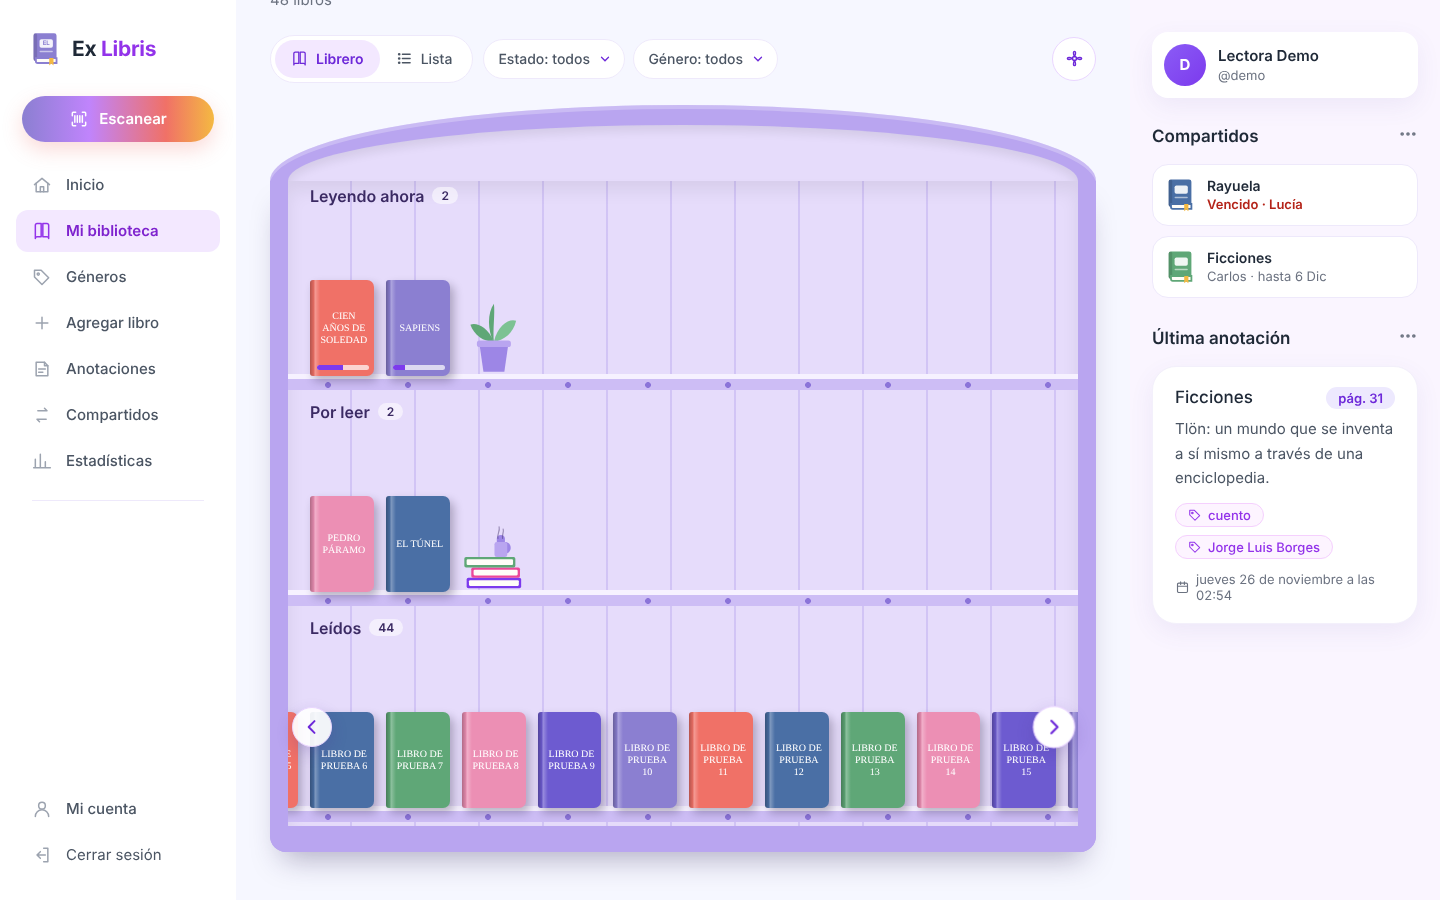
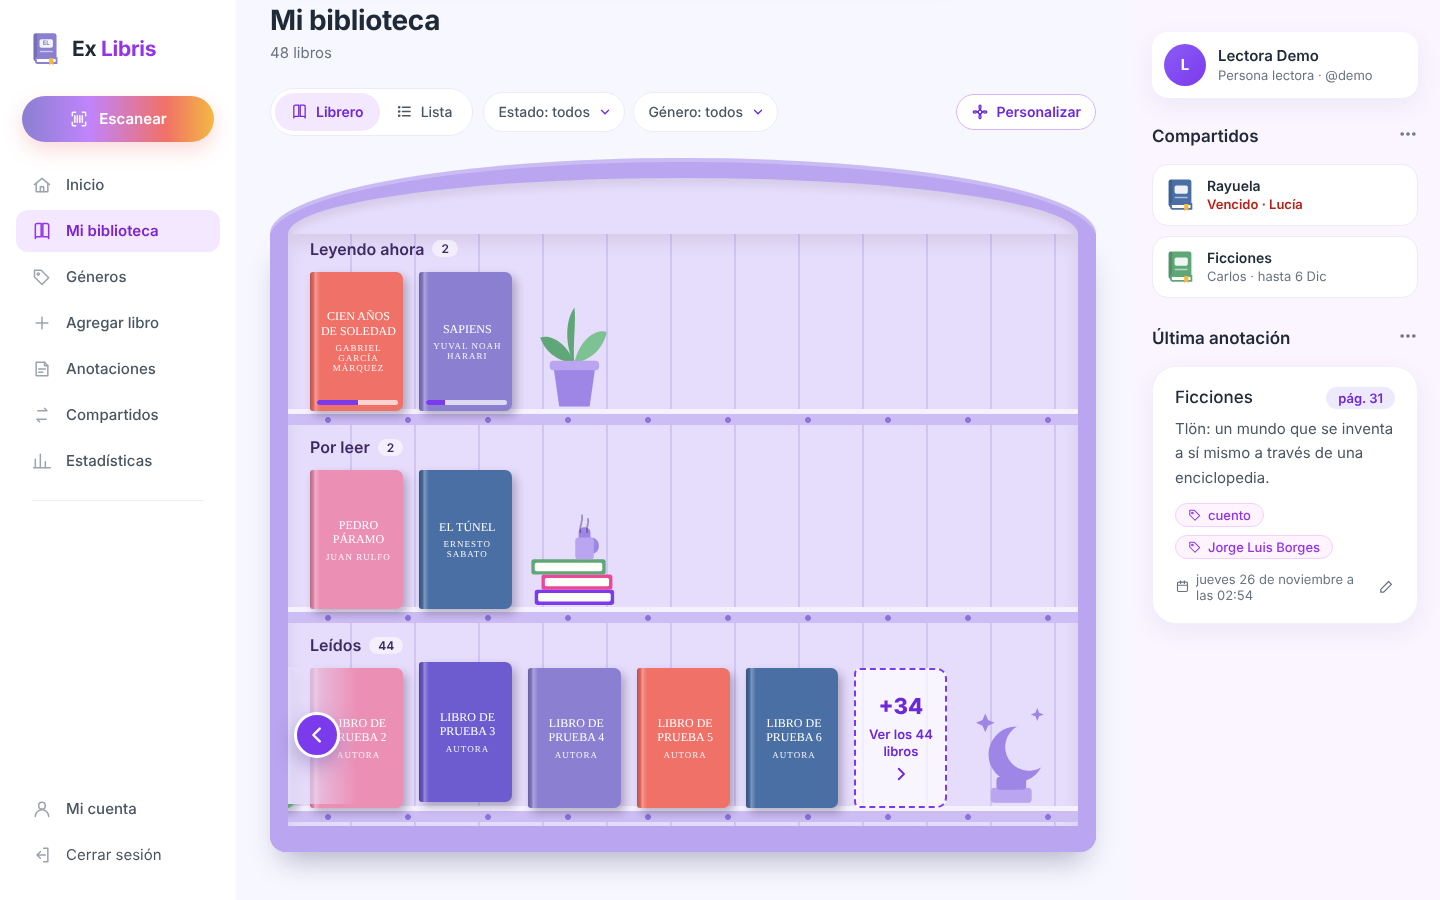
Carrusel: máximo 10 libros por estante con «Ver los N libros» y arrastre con el mouse
Claude-Session: https://claude.ai/code/session_01GYL794gNVj3QXKcKwqtHSP

diff --git a/biblioteca/templates/biblioteca/biblioteca.html b/biblioteca/templates/biblioteca/biblioteca.html
@@ -69,13 +69,13 @@
     {% for seccion in secciones %}
       <div class="estante-seccion">
         <div class="estante-cabecera">
-          <h2>{{ seccion.titulo }} <span>{{ seccion.libros|length }}</span></h2>
+          <h2>{{ seccion.titulo }} <span>{{ seccion.total }}</span></h2>
         </div>
         {% if seccion.libros %}
         <div class="carrusel" data-carrusel>
           <button type="button" class="carrusel-flecha anterior" aria-label="Ver libros anteriores de «{{ seccion.titulo }}»" hidden>{% icono 'flecha-izq' %}</button>
         {% endif %}
-        <div class="repisa{% if seccion.libros %} en-fila{% endif %}" {% if seccion.libros %}tabindex="0" aria-label="{{ seccion.titulo }}: {{ seccion.libros|length }} libro{{ seccion.libros|length|pluralize }}, desliza para ver más"{% endif %}>
+        <div class="repisa{% if seccion.libros %} en-fila{% endif %}" {% if seccion.libros %}tabindex="0" aria-label="{{ seccion.titulo }}: {{ seccion.total }} libro{{ seccion.total|pluralize }}, desliza para ver más"{% endif %}>
           {% for libro in seccion.libros %}
             <a class="libro-repisa" href="{% url 'libro_detalle' libro.pk %}" title="{{ libro.titulo }} · {{ libro.autores }}">
               <span class="tapa-repisa c{{ libro|color_libro }}">
@@ -92,6 +92,13 @@
               {% if seccion.valor == "leyendo" %}<a href="?estado=por_leer&amp;vista=lista">Elegir uno de «Por leer»</a>{% else %}<a href="{% url 'libro_nuevo' %}">Agregar libro</a>{% endif %}
             </div>
           {% endfor %}
+          {% if seccion.hay_mas %}
+            <a class="ver-mas-repisa" href="{{ seccion.url_lista }}">
+              <span class="ver-mas-numero">+{{ seccion.total|add:"-10" }}</span>
+              <span>Ver los {{ seccion.total }} libros</span>
+              {% icono 'flecha-der' %}
+            </a>
+          {% endif %}
           <span class="adorno-repisa">{% include "biblioteca/_adorno.html" with nombre=seccion.adorno %}</span>
         </div>
         {% if seccion.libros %}
@@ -149,6 +156,27 @@
     ant.addEventListener("click", () => mover(-1));
     sig.addEventListener("click", () => mover(1));
     fila.addEventListener("scroll", actualizar, { passive: true });
+
+    // Arrastrar con el mouse (en el celular el dedo ya desliza de forma nativa).
+    let arrastrando = false, inicioX = 0, inicioScroll = 0, movido = false;
+    fila.addEventListener("pointerdown", (e) => {
+      if (e.pointerType !== "mouse" || e.button !== 0) return;
+      arrastrando = true; movido = false; inicioX = e.clientX; inicioScroll = fila.scrollLeft;
+      fila.classList.add("arrastrando");
+    });
+    window.addEventListener("pointermove", (e) => {
+      if (!arrastrando) return;
+      const dx = e.clientX - inicioX;
+      if (Math.abs(dx) > 5) movido = true;
+      fila.scrollLeft = inicioScroll - dx;
+    });
+    window.addEventListener("pointerup", () => {
+      if (!arrastrando) return;
+      arrastrando = false; fila.classList.remove("arrastrando");
+    });
+    // Si se arrastró, el clic al soltar no abre el libro.
+    fila.addEventListener("click", (e) => { if (movido) { e.preventDefault(); e.stopPropagation(); movido = false; } }, true);
+    fila.addEventListener("dragstart", (e) => e.preventDefault());
     window.addEventListener("resize", actualizar);
     actualizar();
   });

diff --git a/biblioteca/static/biblioteca/css/exlibris.css b/biblioteca/static/biblioteca/css/exlibris.css
@@ -947,3 +947,17 @@ a.perfil { transition: box-shadow .15s; } a.perfil:hover { box-shadow: var(--som
 #lector.espejo video { transform: scaleX(-1); }
 #linterna[aria-pressed="true"] { background: #fef3c7; border-color: #f6c453; color: #8a4b0f; }
 #espejo[aria-pressed="true"] { background: var(--lila-100); border-color: var(--lila-300); }
+
+/* ---------- Carrusel: arrastre con el mouse y tarjeta «Ver los N libros» ---------- */
+.librero .repisa.en-fila { cursor: grab; user-select: none; -webkit-user-select: none; touch-action: pan-x pan-y; }
+.librero .repisa.en-fila.arrastrando { cursor: grabbing; scroll-snap-type: none; scroll-behavior: auto; }
+.repisa.en-fila img { -webkit-user-drag: none; pointer-events: none; }
+.ver-mas-repisa {
+  aspect-ratio: 2 / 3; margin-bottom: calc(var(--tabla) - 2px); scroll-snap-align: start;
+  display: flex; flex-direction: column; align-items: center; justify-content: center; gap: 6px; text-align: center; padding: 8px;
+  border-radius: 6px 10px 10px 6px; border: 2px dashed var(--primario); background: rgba(255, 255, 255, .7);
+  color: var(--primario-texto); font-size: 13px; font-weight: 600; line-height: 1.25; transition: background .15s, transform .15s;
+}
+.ver-mas-repisa:hover { background: #fff; transform: translateY(-4px); }
+.ver-mas-numero { font-size: 22px; font-weight: 800; }
+.ver-mas-repisa .icono { width: 18px; height: 18px; stroke-width: 2.4; }

diff --git a/biblioteca/tests/test_librero.py b/biblioteca/tests/test_librero.py
@@ -70,3 +70,21 @@ class PreferenciaLibreroTests(ConUsuario):
     def test_redireccion_externa_ignorada(self):
         r = self.client.post(reverse("librero_preferencias"), {"estilo": "repisas", "color": "rosa", "siguiente": "https://malo.example"})
         self.assertRedirects(r, reverse("biblioteca"))
+
+
+class LibreroMaximoTests(ConUsuario):
+    def test_maximo_10_por_estante_y_enlace_a_la_lista(self):
+        for i in range(13):
+            self.libro(titulo=f"L{i}", estado="leido")
+        r = self.client.get(reverse("biblioteca"))
+        leidos = [s for s in r.context["secciones"] if s["valor"] == "leido"][0]
+        self.assertEqual((len(leidos["libros"]), leidos["total"], leidos["hay_mas"]), (10, 13, True))
+        self.assertContains(r, "Ver los 13 libros")
+        self.assertContains(r, "+3")
+        self.assertIn("estado=leido", leidos["url_lista"])
+        self.assertIn("vista=lista", leidos["url_lista"])
+
+    def test_sin_enlace_con_10_o_menos(self):
+        for i in range(10):
+            self.libro(titulo=f"L{i}", estado="leido")
+        self.assertNotContains(self.client.get(reverse("biblioteca")), "ver-mas-repisa")

diff --git a/biblioteca/views.py b/biblioteca/views.py
@@ -104,11 +104,18 @@ def biblioteca(request):
         ("por_leer", "Por leer", "pila"),
         ("leido", "Leídos", "luna"),
     ]
-    secciones = [
-        {"valor": valor, "titulo": titulo, "adorno": adorno, "libros": [l for l in libros if l.estado == valor]}
-        for valor, titulo, adorno in estantes
-        if not estado or estado == valor
-    ]
+    MAX_POR_ESTANTE = 10  # después de 10 aparece «Ver los N libros», que abre la lista de esa categoría
+    secciones = []
+    for valor, titulo, adorno in estantes:
+        if estado and estado != valor:
+            continue
+        del_estante = [l for l in libros if l.estado == valor]
+        secciones.append({
+            "valor": valor, "titulo": titulo, "adorno": adorno, "total": len(del_estante),
+            "libros": del_estante[:MAX_POR_ESTANTE],
+            "hay_mas": len(del_estante) > MAX_POR_ESTANTE,
+            "url_lista": enlace(estado=valor, vista="lista"),
+        })
     preferencia = PreferenciaLibrero.de(request.user)
     return render(request, "biblioteca/biblioteca.html", {
         "libros": libros, "q": q, "estado": estado, "genero": genero,

diff --git a/AI_LOG.md b/AI_LOG.md
@@ -40,3 +40,4 @@ La IA generativa *dentro* de la app (fase 2) usará un LLM gratuito (Gemini u Ol
 | 26 | 2026-11-26 | Diseño | Claude Code | Simplificar o eliminar los filtros de la biblioteca, «Quitar filtros», «Agregar libro» y «Ver todos»; en Compartidos quitar «Vencido hace…» y dejar un botón morado «Devuelto» | Propuesta aplicada: una sola barra de herramientas (vista Librero/Lista, dos menús desplegables Estado y Género que se aplican al elegir, «×» para limpiar y Personalizar como botón de ícono). Se quitaron «Agregar libro» (ya está en el menú y en el «+» de arriba), «Quitar filtros» (ahora es la «×») y «Ver todos». Compartidos: solo la fecha de devolución (en rojo si está vencida) y botón «Devuelto» violeta sin ícono | ⏳ Pendiente de revisión |
 | 27 | 2026-11-26 | Funcionalidad | Claude Code | Librero para 200+ libros (≈10 visibles y carrusel); inputs con tamaños y placeholders distintos; editar compartidos y anotaciones; «Personalizar» con texto; panel «Mi cuenta» con foto, nombre y lector/lectora; cámara de laptop invertida; linterna en el celular | Cada estante es un carrusel con flechas (≈10 libros en PC, ≈4 en celular). Campos uniformes (46 px) y todos con ejemplo «Ej.: …». Vistas para editar compartidos (con validación de fechas) y anotaciones. Modelo `Perfil` (foto recortada cuadrada a 400 px, tratamiento Lectora/Lector/Persona lectora; por defecto neutro), página Mi cuenta y cambio de contraseña; «Mi cuenta» ya no lleva al admin de Django. Escáner: vista volteada automática en cámaras frontales con botón «Voltear imagen» y botón de linterna solo si el dispositivo la permite. 117 pruebas | ⏳ Pendiente: probar la cámara en laptop y celular (no se puede probar desde el entorno de la IA) |
 | 28 | 2026-11-26 | QA visual | Claude Code | (Dentro de la fila 27) | El carrusel ensanchaba la página (3312 px) porque la fila de libros no tenía límite de ancho dentro de la cuadrícula; corregido con `minmax(0, 1fr)` y `min-width: 0`. Se midió la altura de todos los campos del formulario: 46 px en todos | 🔴🟡 Error de la IA detectado en la revisión |
+| 29 | 2026-11-26 | Funcionalidad | Claude Code | Después de 10 libros, algo que lleve a la lista de esa categoría; arrastrar el carrusel con el mouse y deslizar con el dedo | Cada estante muestra máximo 10 libros y una tarjeta «+N · Ver los N libros» que abre la lista filtrada por ese estado. Arrastre con el mouse (pointer events) que no abre un libro por accidente al soltar; en el celular el deslizamiento es nativo. Verificado en el navegador: el arrastre mueve el estante y la tarjeta lleva a `?estado=leido&vista=lista`. 119 pruebas | ⏳ Pendiente de revisión |
